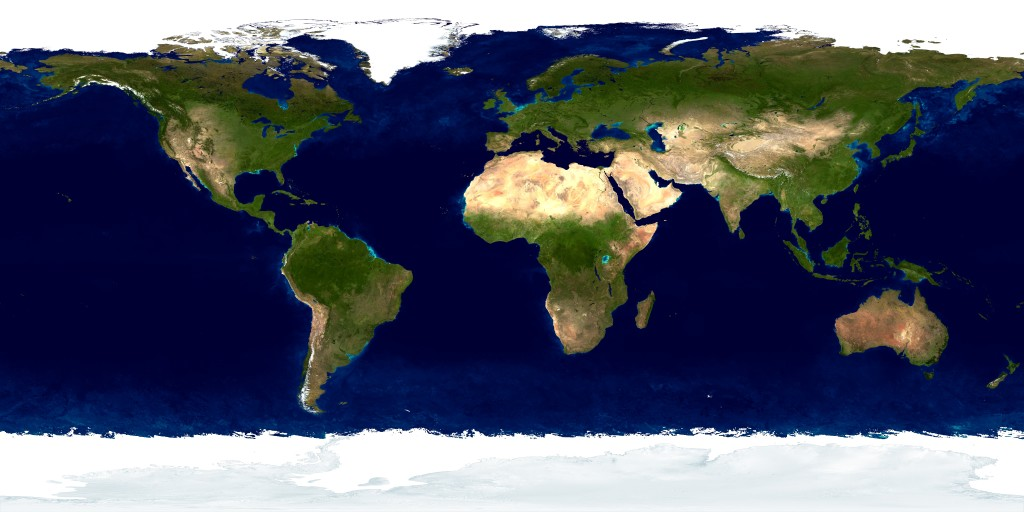
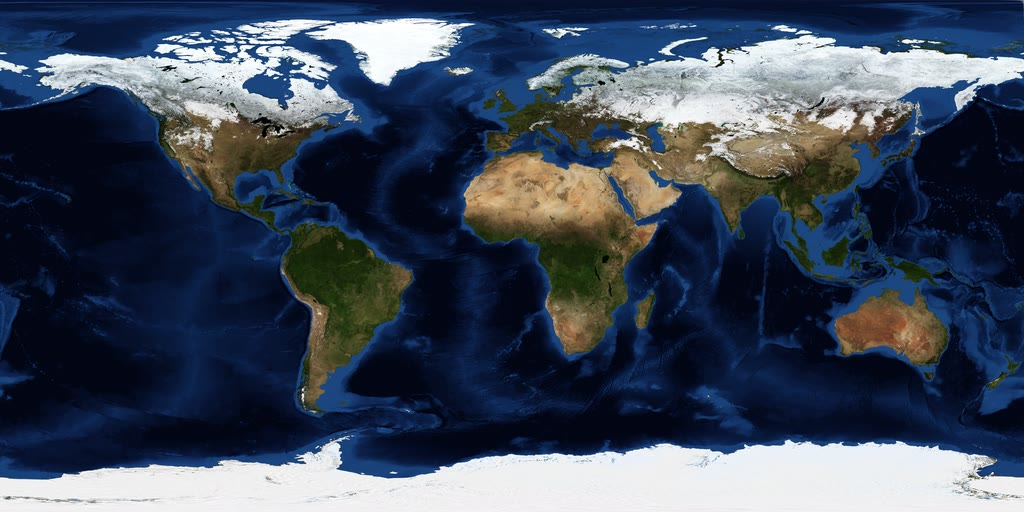
feat(portfolio): nasa blue/black marble earth textures on / — reflects NASA media
Replace owner-supplied 59-earth.zip maps with BMNG day, Black Marble 2016 lights,
and Blue Marble clouds from eoimages.gsfc.nasa.gov; credit NASA on 200 OK.

diff --git a/src/components/round-trip/RoundTrip.tsx b/src/components/round-trip/RoundTrip.tsx
@@ -374,8 +374,31 @@ function Contact({ trip }: { trip: Trip }): React.JSX.Element {
                         AWS Terrain Tiles
                     </a>{' '}
                     (Mapzen Joerd sources; rebuilt by scripts/places/build-dem.py). Moon photograph and
-                    International Space Station model: NASA. Earth textures: from an Earth model pack supplied
-                    by the owner. Stars:{' '}
+                    International Space Station model: NASA. Earth textures:{' '}
+                    <a
+                        href="https://visibleearth.nasa.gov/images/73909/december-blue-marble-next-generation-w-topography-and-bathymetry"
+                        target="_blank"
+                        rel="noopener noreferrer"
+                    >
+                        NASA Blue Marble Next Generation
+                    </a>{' '}
+                    (day),{' '}
+                    <a
+                        href="https://visibleearth.nasa.gov/images/144898/earth-at-night-black-marble-2016-color-maps"
+                        target="_blank"
+                        rel="noopener noreferrer"
+                    >
+                        Black Marble 2016
+                    </a>{' '}
+                    (night lights),{' '}
+                    <a
+                        href="https://visibleearth.nasa.gov/images/57747/blue-marble-clouds"
+                        target="_blank"
+                        rel="noopener noreferrer"
+                    >
+                        Blue Marble clouds
+                    </a>
+                    ; credit NASA. Stars:{' '}
                     <a href="https://svs.gsfc.nasa.gov/4851" target="_blank" rel="noopener noreferrer">
                         NASA/Goddard SVS Deep Star Maps
                     </a>

diff --git a/src/components/round-trip/world/space.ts b/src/components/round-trip/world/space.ts
@@ -334,7 +334,7 @@ export function addSpace(
     glow: Glow,
     rand: () => number
 ): Space {
-    // Earth textures (night lights, clouds, day) supplied by the owner as a free Earth model.
+    // Earth textures: NASA Blue Marble NG (day), Black Marble 2016 (lights), Blue Marble clouds.
     const load = (name: string, colour: boolean): THREE.Texture => {
         const t = new THREE.TextureLoader().load(`/env/${name}-${small ? 'lo' : 'hi'}.jpg`);
         if (colour) t.colorSpace = THREE.SRGBColorSpace;

diff --git a/docs/pass-lapaz/ship-licence.md b/docs/pass-lapaz/ship-licence.md
@@ -1,0 +1,34 @@
+# Ship model licence
+
+**Status (2026-10-22):** Do **not** silently swap the current hull. Owner must approve any replacement.
+
+## Current asset
+
+| Field | Value |
+| --- | --- |
+| Files | `public/models/ship.glb`, `ship-1k.glb` |
+| Title | Intergalactic Spaceship |
+| Author | Dennis Haupt (3DHaupt) |
+| Source | free3d.com (owner-supplied `.blend` → `scripts/assets.sh`) |
+| Licence | Personal / non-commercial (free3d personal-use terms) |
+
+Wired in `world/ship.ts` with custom engine plasma, nose glow, wingtip strobes, and graphite grade. A drop-in must keep that material hook surface (named meshes / PBR maps) or those FX need a retune.
+
+## Recommendation
+
+**Keep the free3d ship until the owner explicitly approves a CC0/CC-BY replacement.** The personal NC terms are a residual risk for a public portfolio; that is an owner call, not an automatic swap.
+
+### Free candidates surveyed (not installed)
+
+| Candidate | Licence | Format | Notes |
+| --- | --- | --- | --- |
+| [Quaternius Ultimate Spaceships Pack](https://quaternius.com/packs/ultimatespaceships.html) | **CC0 1.0** (also on [OpenGameArt](https://opengameart.org/content/lowpoly-spaceships-pack)) | FBX, OBJ, glTF, Blend | Best clear free path: stylised low-poly, commercial OK, no attribution required. **Not a silhouette match** for the current Intergalactic hull — needs art direction + `ship.ts` FX retarget. |
+| Grab3D “Sci-Fi Spaceship” / “Spaceship” | Claims CC0 1.0 + GLB | GLB | Convenient GLB downloads; verify `LICENSE.txt` in the download before shipping. Stylised shuttle / starfighter — still not a drop-in. |
+| Poly Haven “Ship Pinnace” (via Mixos mirror) | CC0 | GLB | **Watercraft**, not a spaceship — unsuitable. |
+
+No CC0/CC-BY model was found that is both clearly licensed for commercial portfolio use and a faithful drop-in for the current Intergalactic Spaceship. Closest clear licence: **Quaternius Ultimate Spaceships (CC0)** after owner picks a hull and approves the visual change.
+
+## Owner decision needed
+
+1. Accept residual free3d personal/NC risk on the live site, **or**
+2. Approve Quaternius (or another named CC0/CC-BY) replacement and a follow-up pass to retarget `ship.ts` FX / credits / `docs/round-trip.md`.

diff --git a/docs/pass-lapaz/earth-textures.md b/docs/pass-lapaz/earth-textures.md
@@ -1,0 +1,31 @@
+# Earth textures (`public/env/earth-*.jpg`)
+
+**Status (2026-10-22):** Replaced owner-supplied `59-earth.zip` maps with NASA Earth Observatory / Visible Earth media. Not a licence blocker.
+
+## Why NASA-3D-Resources was not enough
+
+Sparse checkout of `nasa/NASA-3D-Resources` @ `11ebb4ee043715aefbba6aeec8a61746fad67fa7` found no usable day / night-lights / cloud equirectangulars for `space.ts`:
+
+| Path | What it is | Why it fails |
+| --- | --- | --- |
+| `Images and Textures/Earth (A)/Earth (A).jpg` | 1440×720 hypsometric shaded relief | Not true-colour day |
+| `Images and Textures/Earth (B)/Earth (B).jpg` | 4095×4095 Apollo whole-disc photo | Not equirectangular; no lights/clouds |
+
+## Sources used (reachable 2026-10-22 via `eoimages.gsfc.nasa.gov`)
+
+| Role | File in `assets-src/nasa/earth/` | URL | Output sizes |
+| --- | --- | --- | --- |
+| Day | `day-src.jpg` | [BMNG Dec 2004 topo+bathy 5400×2700](https://eoimages.gsfc.nasa.gov/images/imagerecords/73000/73909/world.topo.bathy.200412.3x5400x2700.jpg) | `earth-day-hi.jpg` 2048×1024, `earth-day-lo.jpg` 1024×512 |
+| Lights | `lights-src.jpg` | [Black Marble 2016 3 km](https://eoimages.gsfc.nasa.gov/images/imagerecords/144000/144898/BlackMarble_2016_3km.jpg) | `earth-lights-hi.jpg` 4096×2048, `earth-lights-lo.jpg` 2048×1024 (grayscale; shader uses `.r`) |
+| Clouds | `clouds-src.jpg` | [Blue Marble clouds 2048×1024](https://eoimages.gsfc.nasa.gov/images/imagerecords/57000/57747/cloud_combined_2048.jpg) | `earth-clouds-hi.jpg` 2048×1024, `earth-clouds-lo.jpg` 1024×512 |
+
+Rebuild: `scripts/assets.sh` (ffmpeg block under “Earth textures”). Sources live under git-ignored `assets-src/nasa/earth/`.
+
+## Licence / credit
+
+NASA media is generally not copyrighted in the United States; credit NASA; do not imply endorsement.
+
+- [NASA Images and Media Usage Guidelines](https://www.nasa.gov/nasa-brand-center/images-and-media/)
+- Earth Observatory reuse FAQ: credit NASA (Earth Observatory optional)
+
+Credits line on the `200 OK` panel and `docs/round-trip.md` name Blue Marble NG, Black Marble 2016, and Blue Marble clouds.

diff --git a/docs/HANDOVER.md b/docs/HANDOVER.md
@@ -27,7 +27,7 @@ Scrolling flies an alien ship (three.js r184, `src/components/round-trip/world/*
 2. Ship polish still listed in older notes (hull grade, engine glow cap, time-based flicker).
 3. ~~Portal entry through the window (`rings.entry`), streaks only for air passages, lighter vignette.~~ Done 2026-10-22 (portal throat + entry + air-only warp; vignette already lighter).
 4. Phone scrim must not erase the world; distinctive display face (HTML layer).
-5. Replace owner-supplied Earth textures with NASA Blue Marble / Black Marble if reachable.
+5. ~~Replace owner-supplied Earth textures with NASA Blue Marble / Black Marble if reachable.~~ Done 2026-10-22 (`docs/pass-lapaz/earth-textures.md`).
 6. ~~Sketchfab credit links still point at search pages — replace with model page URLs.~~ Done 2026-10-22 (portal + Osaka model pages in `RoundTrip.tsx`).
 
 ## Validation (every change)
@@ -38,7 +38,6 @@ Scrolling flies an alien ship (three.js r184, `src/components/round-trip/world/*
 
 ## Open items needing the owner
 
-- Earth textures (`public/env/earth-*.jpg`) licence unknown; credited as owner-supplied.
 - Ship model free3d personal/non-commercial (owner's choice; residual licence risk).
 - Impact card wording flagged in prior handover (owner confirmed `site.ts`).
 

diff --git a/docs/round-trip.md b/docs/round-trip.md
@@ -52,7 +52,7 @@ The route in the HUD fills between hops as the request travels; each project's d
 | --- | --- | --- |
 | `models/ship.glb`, `ship-1k.glb` | Intergalactic Spaceship, Dennis Haupt (3DHaupt), free3d.com ([Sketchfab mirror](https://sketchfab.com/3d-models/intergalactic-spaceship-a51cc468ec2049b583c36e5c4606fbc2)) | Personal, non-commercial use; supplied by the owner |
 | `models/portal.glb`, `portal-1k.glb` | [Sci-Fi Portal Gateway](https://sketchfab.com/3d-models/sci-fi-portal-gateway-58d2570e88c642bba8ef92f3175391cf), Igrium, Sketchfab | CC BY 4.0; supplied by the owner |
-| `env/earth-*.jpg` | Earth model textures supplied by the owner (`59-earth.zip`) | As supplied |
+| `env/earth-*.jpg` | NASA Blue Marble Next Generation (day), Black Marble 2016 (lights), Blue Marble clouds | NASA media; credit NASA; see `docs/pass-lapaz/earth-textures.md` |
 | `env/stars-*.jpg` | NASA/Goddard SVS Deep Star Maps 2020 | NASA/GSFC SVS; ESA/Gaia/DPAC |
 | `env/night.hdr` | Modern Buildings Night, Poly Haven | CC0 |
 | `models/places/lapaz-bowl-*.glb`, `illimani-*.glb` | AWS Terrain Tiles (Terrarium) via `scripts/places/build-dem.py` | Joerd attribution; La Paz city chapter |
